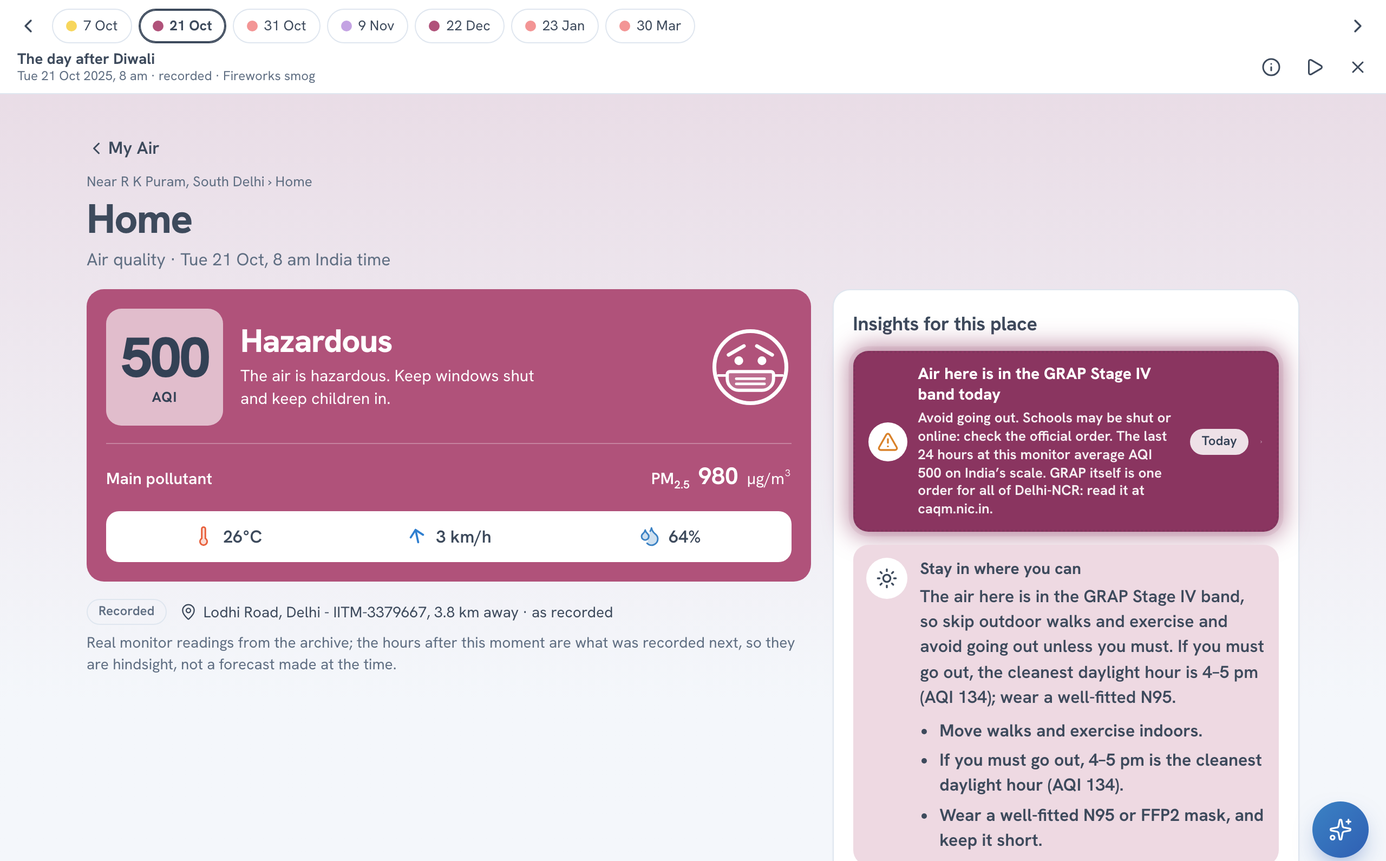
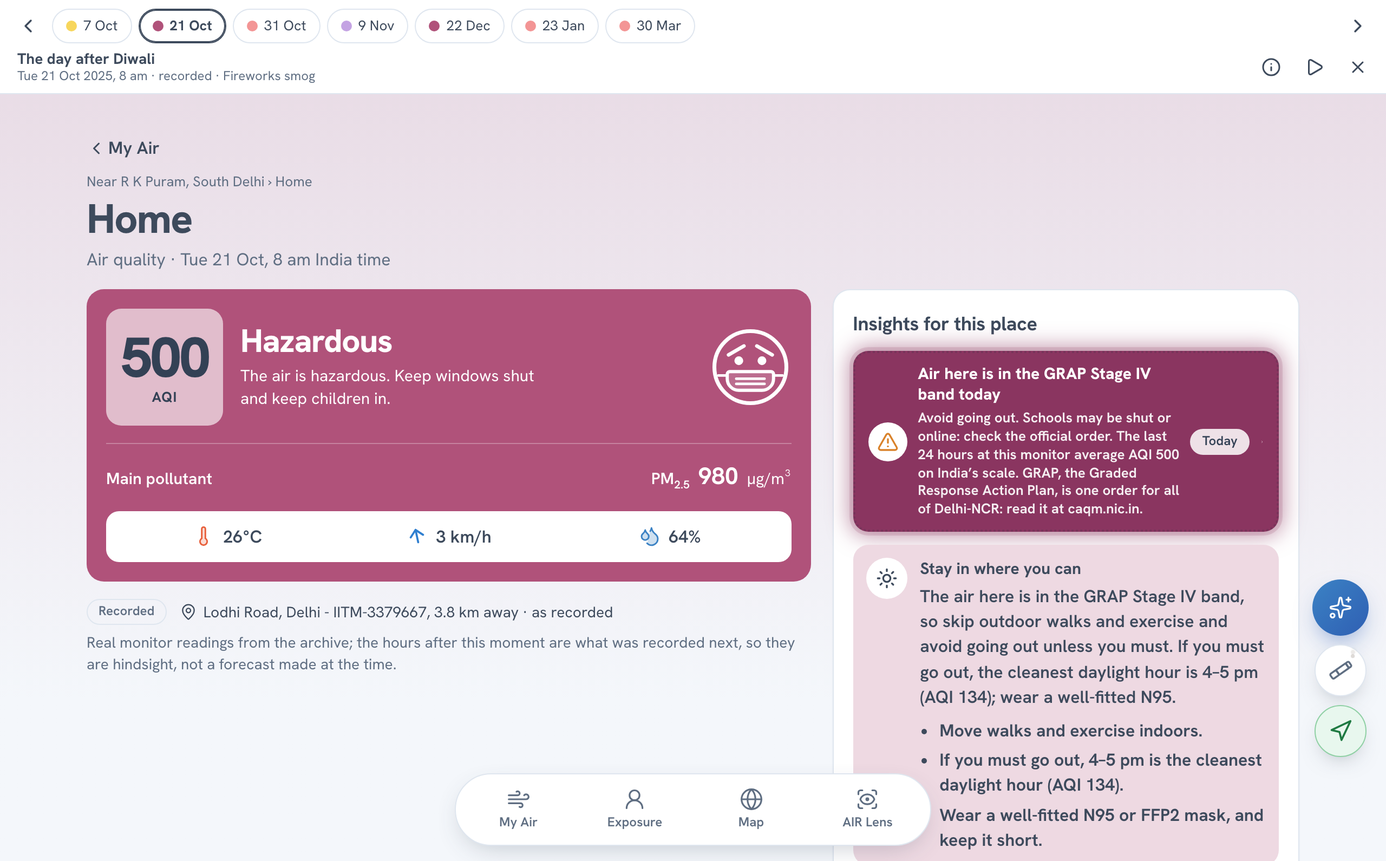
docs(ui): update architecture diagrams and capture verified place insights screenshots

diff --git a/docs/blog.md b/docs/blog.md
@@ -1,53 +1,85 @@
-# Do we walk to school? One answer for one place in Delhi's air, built on AWS
+# Do we walk to school today? One answer for one place in Delhi's air, built on AWS
 
-It is 8 am on 21 October 2025, the morning after Diwali, in South Delhi. A child's school bag is by the door. A parent opens a phone and finds an air-quality number for the whole city. The question is small and urgent: do we walk to school today?
+It is 8 am on 21 October 2025, the morning after Diwali, in South Delhi. A school bag sits by the door. A parent opens a phone and finds one air-quality number for the whole city. The question is small and urgent: do we walk to school?
 
-The parent is a sketch. The morning is real. The nearest monitor with a fresh reading, Lodhi Road, 3.8 km from a home near R K Puram, read PM2.5 at 980 µg/m³. On the US AQI scale that is 500, the top of the scale. The official pollution stage for all of Delhi-NCR that morning was GRAP Stage II, set from a city-wide average of 351.
+The parent is a sketch. The morning is real. The nearest monitor with a fresh reading, Lodhi Road, 3.8 km from a home near R K Puram, read PM2.5 at 980 µg/m³. On the US Air Quality Index (AQI) that is 500, the top of the scale. The official pollution stage for all of Delhi-NCR that morning was GRAP Stage II, set from a city-wide average of 351. GRAP is Delhi's Graded Response Action Plan.
 
-Replayed at 8 am, AeroVigil gives that parent one answer: avoid going out, and wear a well-fitted N95 if you must. The cleanest daylight hour is 4 to 5 pm. On a recorded day that hour is known in hindsight; live, it is a forecast.
+Replayed at 8 am, AeroVigil says: avoid going out, and wear a well-fitted N95 if you must. It names the monitor, its distance and the reading's age.
 
-![Home on the recorded morning after Diwali: AQI 500, the monitor's name and distance, and advice for this place](images/02b-place-insights-desktop.png)
-_The recorded morning after Diwali, 21 Oct 2025, 8 am. The card names the monitor (Lodhi Road, 3.8 km away) and says "as recorded"._
+![Home on the recorded morning after Diwali: AQI 500, PM2.5 980 µg/m³, the Lodhi Road monitor at 3.8 km "as recorded", and the advice for this place](images/02b-place-insights-desktop.png)
+_The recorded morning after Diwali, 21 Oct 2025, 8 am. The alert says the air at this place is in the GRAP Stage IV band. That is my estimate from the last 24 hours at this monitor. The card says the official order comes first, and it was Stage II._
+
+It is free and live: https://d3sqz5i7m8h3wk.cloudfront.net. Press **Try without login** to play that morning yourself.
 
 ## The idea
 
 Delhi has many air-quality numbers and none of them says what to do. A city figure cannot see one street. The nearest monitor may be kilometres away and its reading hours old.
 
-AeroVigil is a free web app that turns public air data into a decision for one named place: a home, a school, a park. Walk or stay in. Mask or not. Windows shut or open. Morning assembly inside or on the ground. Every number says which monitor it came from, how far away that monitor is, and how old the reading is.
+AeroVigil turns public air data into a decision for one named place: a home, a school, a park. Walk or stay in. Mask or not. Windows shut or open. School assembly inside or on the ground. Every number says which monitor it came from, how far away it is and how old the reading is.
 
-You can try it now without an account. "Try without login" on https://d3sqz5i7m8h3wk.cloudfront.net opens seven real past days, played through the same app as if it were 8 am on each: rain, the day after Diwali, stubble fires, two smog days, a downpour that cleared the smog, and a windy day. The air comes from four Delhi monitors in OpenAQ's public archive, cleaned by two written rules, with the 86 hours dropped as lone-monitor spikes counted. The hours after 8 am are what was recorded next, so these days show the features, not forecast accuracy.
+I built it solo for the AWS Environmental Hacks Air track, with AgentFoundry as a coding assistant. I chose the problem and the rules, read and ran every change, built the hardware, and deployed everything to my own AWS account.
 
-I built it solo, for the AWS Environmental Hacks Air track, with AgentFoundry as a coding assistant. I chose the problem and the rules, read and ran every change, built the hardware, and deployed it to my own AWS account.
-
-## What you see
-
-You add the places you care about and say who each is for. Each card shows the colour of the air, the AQI, the weather, the cleanest hour, the next two days, and the monitor's name, distance and age. Alerts cover the GRAP band, smog, stubble burning, rain and wind.
-
-Around that sit four more things. A **map** of every monitor the app can read (7,258 on 12 October), satellite fires from NASA, and wind. **Exposure**, which draws a person's day at home, at school or work, and outdoors, coloured by the air. **AIR Lens**, which draws the air as particles in front of your phone camera. And an **assistant** in English and Hindi, by text or voice: "I walked 30 minutes at home" logs a walk.
-
-![Six screens of the app](images/collage-features.jpg)
+![Six screens of the app: My Air, the recorded days, the map, AIR Lens, the assistant and Exposure](images/collage-features.jpg)
 _Top row: My Air, the recorded morning after Diwali, the map with satellite fires and wind. Bottom row: AIR Lens, the assistant, Exposure._
+
+## What you get
+
+You add the places you care about. Each card shows the colour of the air, the AQI, the weather, the cleanest hour, the next two days, and the monitor's name, distance and age. Alerts cover the GRAP band, smog, stubble burning, rain and wind. Around the cards sit a map of every monitor the app can read (7,258 on 12 October), an Exposure view of a person's day, AIR Lens, which draws the air as particles in front of your camera, and an assistant in English and Hindi, by text or voice.
 
 Three trust rules sit under every screen:
 
-- A reading more than six hours old gives no advice. The card shows an estimate from a regional model and says so.
-- Every number is labelled Live, Estimate or Measured.
-- A GRAP stage is shown as "the air here is in the GRAP Stage X band". It is my estimate for that place, and the card says the official order comes first. A school is only ever "likely" closed.
+- **Old readings give no advice.** A reading more than six hours old is dropped, and the card shows an estimate from a regional model and says so.
+- **Every number is labelled** Live, Estimate or Measured.
+- **A GRAP stage is my estimate, never an order.** The card says "the air here is in the Stage X band", and the official order comes first. A school is only ever "likely" closed.
 
-That third rule matters because places differ. On 9 November 2025, two places 4 km apart averaged 434 and 319 on India's scale over the previous 24 hours: two different GRAP bands. One city number hides that gap.
+The third rule matters because places differ. On 9 November 2025, two places 4 km apart averaged 434 and 319 on India's scale over the previous 24 hours: two different GRAP bands. One city number hides that gap.
+
+### Seven real days, no waiting for a bad one
+
+**Try without login** plays seven real past days through the same app, as if it were 8 am on each: rain, the day after Diwali, stubble fires, two smog days, a downpour that cleared the smog, and a windy day. The air comes from four Delhi monitors in OpenAQ's public archive, cleaned by two written rules, with the 86 hours dropped as lone-monitor spikes counted. The hours after 8 am are what was recorded next, so these days show the features, not forecast accuracy.
+
+![The map on 31 October 2025: NASA satellite fire detections over Punjab and Haryana, with wind arrows](images/03-map-stubble-fires-phone.png)
+_31 Oct 2025, the stubble-burning peak. The app counted 85 fire detections near Home or upwind within 300 km in the previous 24 hours._
 
 ## Code decides, AI only words
 
-The assistant is where an air app could do harm, so it has one rule: fixed rules decide the advice, and the model may only reword it.
+An air app can do harm in its assistant, so it follows one rule: fixed rules decide the advice, and the model may only word it.
 
 Amazon Bedrock runs Amazon Nova Micro behind a Guardrail. It gets the rules' answer and the facts behind it. It may reword the answer, or answer a question the rules do not cover from those facts. Then code checks the wording:
 
 - every number must be one of the facts;
 - it may not spell numbers out or add reassurance the rules did not write;
 - it may not call the air good unless the level is Good;
-- masked names such as [place] are put back, whatever their case.
+- masked names such as `[place]` are put back, in any case.
 
-On any doubt, the rules' own plain text goes out. Hindi answers never reach the model: they are fixed wording a person wrote, with the facts slotted in. Amazon Polly, with the neural voice Kajal, reads answers aloud in both languages.
+On any doubt, the rules' own text goes out. Hindi answers never reach the model: they are wording a person wrote, with the facts slotted in. Amazon Polly, with the neural voice Kajal, reads answers aloud in both languages.
+
+![The assistant's answer on 9 Nov 2025: Stage III band likely at Home, the cleanest hour, and a mask, labelled "Wording by AI, checked against the facts"](images/06-assistant-answer-phone.png)
+
+One honest gap: the number check is a set check. It proves each number came from the facts, not that it sits in the right place. That is why a reworded answer may only use the numbers in its own rule's answer.
+
+## How it runs on AWS
+
+The app and API are one AWS CDK stack in TypeScript, in Mumbai (ap-south-1). The browser never calls an air-data provider: readings, forecasts and fires come through my API. Only place search, map tiles and Cognito sign-in are called directly. The API reads public data (OpenAQ, Open-Meteo, NASA FIRMS), applies the rules and returns one answer with its source and age.
+
+![The request path: the phone asks CloudFront, which passes /v1 to API Gateway and one Lambda, backed by DynamoDB](images/08-architecture-scene-2.png)
+_Scene 2 of the animated architecture: a person asks for the air at a place._
+
+| Service                                                  | What it does here, and why                                                                                                                                                                                                  |
+| -------------------------------------------------------- | --------------------------------------------------------------------------------------------------------------------------------------------------------------------------------------------------------------------------- |
+| Amazon CloudFront + Amazon S3                            | One address for the app and the API, so no CORS. The bucket is private. The API says how long an answer may be kept, up to 15 minutes; an answer without that header, such as an error, is never kept.                      |
+| Amazon API Gateway (HTTP API)                            | A proxy, a throttle and a JWT authorizer, cheaper per request than a REST API. 25 requests a second (burst 50); 3 for the assistant and speech; 1 for forms.                                                                |
+| AWS Lambda                                               | One function for every route (Node 22, Graviton, 256 MB, 10-second limit). It checks each request and answer against a schema, so a bad answer is an error, never a number.                                                 |
+| Amazon DynamoDB                                          | On-demand, with TTL. The cache, saved accounts, cached speech and the daily caps. Each cap is one conditional `UpdateItem`: add one only if there is room, so two requests at once cannot both take the last slot. No lock. |
+| Amazon EventBridge Scheduler                             | Every 15 minutes, four reference places kept warm. Every 30, about 7,260 monitors read for the map. Retries are zero, and an alarm fires if a job stops: after 45 minutes for the first, 90 for the second.                 |
+| Amazon Bedrock with Guardrails                           | Nova Micro rewords; it never decides. One Converse call, temperature 0.2, 220 tokens at most, raced against a 6-second timer.                                                                                               |
+| Amazon Polly                                             | Answers read aloud, cached by their text.                                                                                                                                                                                   |
+| Amazon Cognito                                           | Optional accounts. A JWT authorizer guards the one account route, and saved data is keyed by the user id inside the verified token.                                                                                         |
+| Secrets Manager, Parameter Store, CloudWatch, SNS, X-Ray | Keys out of code; one parameter that switches the model off within a minute, with no deploy; 8 alarms; a trace of every AWS call.                                                                                           |
+
+The AWS open source I used is AWS CDK and Powertools for AWS Lambda (Logger and Tracer). CDK assertion tests turn safety rules into failing builds: every Lambda on arm64, no function time limit over 2 minutes, buckets block public access, and only the account route behind a token.
+
+Also deployed and tested, with its sends switched off: an AWS Step Functions alert loop that waits for a tap. Nothing in the app starts it yet. The whole repository runs 1,285 automated tests, plus lint, types and `cdk synth`, in one command.
 
 ## The room: a measuring unit and a cleaner
 
@@ -55,80 +87,33 @@ Outdoor monitors cannot see inside a room, so I built a small measuring unit: an
 
 ![The measuring unit: an ESP32-S3 board wired to the SPS30 particle sensor on a breadboard](images/build/measuring-unit.jpg)
 
-I have not compared the unit with a monitor, so I do not call it accurate. Bluetooth is tested in Chrome on a Mac only, and iPhone Safari cannot do it.
+I have not compared the unit with a monitor, so I do not call it accurate. Bluetooth is tested in Chrome on a Mac only; iPhone Safari cannot do it.
 
-The room page can show how fast the air falls when a purifier goes on, so I built a prototype cleaner: a free box, a Hicool BCF-250 centrifugal fan (₹3,300), a Smart Air pleated filter (₹1,500) and a foam pre-filter (₹200). ₹5,000 of parts.
+The room page can show how fast the air clears when a purifier goes on, so I built a prototype cleaner: a free box, a Hicool BCF-250 centrifugal fan (₹3,300), a Smart Air pleated filter (₹1,500) and a foam pre-filter (₹200). ₹5,000 of parts.
 
-![The cleaner built in five steps](images/collage-build.jpg)
-_The cleaner in five steps: the box, the fan, the pleated filter, the foam, assembled._
+![The cleaner built in five steps: the box, the fan, the pleated filter, the foam, assembled](images/collage-build.jpg)
 
 A handheld vane anemometer at the outlet read about 191 cfm, roughly 325 m³ an hour.
 
 [![The anemometer at the cleaner's outlet reading 191 CFM](images/build/purifier-6-airflow-191cfm.jpg)](images/build/airflow-proof.mp4)
 
-That is airflow, not CADR. CADR also depends on how much each pass removes, and is measured by watching a room's particles fall with the cleaner off and then on. I have not run that test, and I have not measured noise or power. It runs on mains power and has had no electrical safety review.
-
-## How it runs on AWS
-
-The app and API are one AWS CDK stack in TypeScript, in Mumbai (ap-south-1). The browser never calls an air-data provider: readings, forecasts and fires come through my API. Only place search, map tiles and Cognito sign-in are called directly. The API reads public air data (OpenAQ, Open-Meteo, NASA FIRMS), applies the rules and returns one answer with its source and age.
-
-| Service                                                  | What it does here, and why                                                                                                                                                           |
-| -------------------------------------------------------- | ------------------------------------------------------------------------------------------------------------------------------------------------------------------------------------ |
-| Amazon CloudFront + Amazon S3                            | One address for the app and the API, so no CORS. Private bucket. API answers cached up to 15 minutes.                                                                                |
-| Amazon API Gateway (HTTP API) + AWS Lambda               | All routes in one Node 22 function on Graviton. Request and answer checked against a schema, so a bad answer is an error, never a number. 25 requests a second; 3 for the assistant. |
-| Amazon DynamoDB                                          | On-demand, with TTL. The cache, saved accounts, cached Polly audio, and the daily quotas.                                                                                            |
-| Amazon EventBridge Scheduler                             | Every 15 minutes, four reference places kept warm. Every 30 minutes, about 7,260 monitors read for the map. Retries off.                                                             |
-| Amazon Bedrock with Guardrails                           | Nova Micro rewords; it never decides. One call, 220 tokens at most, 6-second timeout.                                                                                                |
-| Amazon Polly                                             | Answers read aloud in English and Hindi.                                                                                                                                             |
-| Amazon Cognito                                           | Optional accounts. An API Gateway JWT authorizer guards the one account route.                                                                                                       |
-| Secrets Manager, Parameter Store, CloudWatch, SNS, X-Ray | Keys out of code; a switch that turns the model off without a deploy; 8 alarms; traces.                                                                                              |
-
-The AWS open source I used is AWS CDK and Powertools for AWS Lambda (Logger and Tracer). CDK assertion tests turn safety rules into failing builds: every Lambda on arm64, no function time limit over 2 minutes, buckets block public access, only the account route behind a token.
-
-One detail I am glad of: the assistant's 500-a-day cap is a single conditional UpdateItem in DynamoDB. It adds one only if there is room, so two requests at the same moment cannot both take the last slot. No lock.
-
-Deployed and tested, but with its sends switched off: an AWS Step Functions alert loop that waits for a tap, reminds and escalates. Nothing in the app starts it yet, and Telegram sends are off.
-
-### One request, start to finish
-
-1. **CloudFront.** HTTPS only, with HSTS and a strict content policy. For `/v1/*` the cache key is the full query string, and CloudFront forwards one header, `CloudFront-Viewer-Address`, never the viewer's Host header.
-2. **Cache hit.** If the API said the answer may be kept, CloudFront returns it in about 0.15 s. An answer without that header, such as an error, is never kept.
-3. **API Gateway.** The stage allows 25 requests a second (burst 50). The assistant and speech routes allow 3 a second, forms 1. On `/v1/me` a JWT authorizer checks the Cognito token before any code runs.
-4. **Lambda.** It validates the request. For four reference places it reads DynamoDB, filled every 15 minutes. For any other place it fetches OpenAQ and Open-Meteo live: median 1.5 s, p99 5.2 s over the last 24 hours. It drops readings older than six hours, applies the rules and validates the answer.
-
-### Why these services, and not the obvious alternative
-
-- **CloudFront in front of both.** One origin for page and API removes CORS, and the cache turns a 1.5 s lookup into a 0.15 s repeat. The cost is that if CloudFront fails, nothing loads.
-- **HTTP API, not REST API.** I needed a proxy, a throttle and a JWT authorizer, at a lower price per request.
-- **One Lambda, not many.** One cold start, one schema contract, one place to test. 256 MB, 10-second limit.
-- **DynamoDB, not a cache server.** Nothing to run, and conditional writes give race-free caps.
-- **EventBridge Scheduler, not a cron inside Lambda.** The retry policy lives on the schedule. I set it to zero, and an alarm fires after 45 minutes with no runs (90 for the map job).
-- **Nova Micro, the smallest model.** The job is rewording three sentences. If it fails, the rules answer.
-- **Cognito without a hosted page.** Accounts with no auth code of mine in the API.
-
-### The assistant's path, in three details
-
-1. **Switch.** One Systems Manager parameter must read exactly "true"; an error reads as off. The value is cached for 60 seconds, so a flip bites within a minute.
-2. **Caps.** One conditional DynamoDB `UpdateItem` per cap: 40 a day per caller (the address hashed with a secret salt) and 500 a day in all. Counters reset at midnight India time.
-3. **Bedrock.** One Converse call to `apac.amazon.nova-micro-v1:0` with the Guardrail attached, temperature 0.2, at most 220 output tokens, raced against a 6-second timer.
-
-One honest gap: the number check is a set check. It proves each number came from the facts, not that it sits in the right place. That is why a reworded answer may only use the numbers in its own rule's answer.
+That is airflow, not CADR. CADR also depends on how much each pass removes, and is measured by watching a room's particles fall with the cleaner off and then on. I have not run that test, or measured noise or power. It runs on mains power and has had no electrical safety review.
 
 ## What fought back
 
 ### My own screenshot was wrong
 
-Writing this post, I looked at my own screenshot of the morning after Diwali: AQI 500, beside "GRAP Stage II". Those do not go together. The estimate had averaged the last 24 hours the monitor _had_, so gaps pulled in older, cleaner hours. It also stretched one hour's PM10-to-PM2.5 ratio over the whole day.
+Writing this post, I looked at my screenshot of the morning after Diwali: AQI 500, beside "GRAP Stage II". Those do not go together. The estimate had averaged the last 24 hours the monitor _had_, so gaps pulled in older, cleaner hours. It also stretched one hour's PM10-to-PM2.5 ratio over the whole day.
 
-Now it uses the last 24 hours only, needs 16 of them, caps the ratio at 2, and treats a missing PM10 as a floor. I checked it against the monitors' own PM10 on 24 station-days: 22 landed in the same stage and 2 gave no estimate because too few recent hours were there. The same check found a rain alert that promised clean air when the forecast showed none.
+Now it uses the last 24 hours only, needs 16 of them, caps the ratio at 2, and treats a missing PM10 as a floor. I checked it against the monitors' own PM10 on 24 station-days: 22 landed in the same stage and 2 gave no estimate because too few recent hours were there.
 
 ### The model never answered
 
 My first live questions came back in the rules' plain wording, never the model's. The Guardrail's prompt-attack filter was blocking my own rewording instruction, because it sat in the user turn. With the trace off, the response said only that the guardrail had stepped in, not which filter. Moving the instruction to the system prompt fixed it.
 
-### "[Place] has good air quality" at AQI 61
+### "Good air quality" at AQI 61
 
-A script that drives the live site in a browser caught a model answer calling Moderate air "good". The model had also capitalised my masked placeholder, so the name was not put back. Placeholders are now restored whatever their case, and an answer that calls the air good when it is not Good is refused. Earlier, my number check had let "[person 1]" through as the number 1. Each of these is now a test.
+A script that drives the live site caught a model answer calling Moderate air "good", and a masked place name that was never put back. Both are now refused or restored, and each is a test. Earlier, my number check had let "[person 1]" through as the number 1.
 
 ### A 403 from CloudFront, and a deploy that could not roll back
 
@@ -140,17 +125,14 @@ The serial log showed good readings, then nothing the moment the app connected. 
 
 ## Numbers
 
-- **Cost:** about $4.50 a month idle, worked out from AWS list prices, not read from a bill. An assistant question costs $0.0008, and 98% of that is the guardrail, so the caps sit on the assistant: 40 questions per caller, 500 a day. Everything at its cap, short of a flood, comes to about $46 a month. A flood against CloudFront itself is not capped; there is no WAF.
-- **Speed:** over 24 hours the API's Lambda took a median 1.5 s and 5.2 s at p99 (a place it has not seen fetches live from OpenAQ). I saw 1.6 to 7.3 s end to end on a fresh lookup, including one cold start. A repeat comes back from CloudFront in about 0.15 s.
-- **Quality:** 1,285 automated tests, plus lint, strict types, `cdk synth` and a bundle check, in one command.
+- **Cost:** about $4.50 a month idle, worked out from AWS list prices, not read from a bill. An assistant question costs $0.0008, and 98% of that is the guardrail, so the caps sit on the assistant. Everything at its cap comes to about $46 a month. A flood against CloudFront itself is not capped; there is no WAF.
+- **Speed:** over 24 hours the API's Lambda took a median 1.5 s and 5.2 s at p99 (a place it has not seen is fetched live from OpenAQ). I saw 1.6 to 7.3 s end to end on a fresh lookup, including one cold start. A repeat comes back from CloudFront in about 0.15 s.
 
-## What is not done
+## What is not done, and what is next
 
 No pilot and no users yet, so I claim nothing about health. The GRAP band is my estimate, checked against monitors, not against official orders. The unit's accuracy is untested and the cleaner's CADR is unmeasured.
 
-## What is next
-
-First, the smoke-decay test: raise a room's PM2.5, log how fast it falls with the cleaner off and then on, and fit the curve. Then the unit beside a monitor for a few days, with the difference published. Then one school, for one term.
+Next: the smoke-decay test (raise a room's PM2.5, log how fast it falls with the cleaner off and then on, and fit the curve). Then the unit beside a monitor for a few days, with the difference published. Then one school, for one term.
 
 ## What I learned
 
